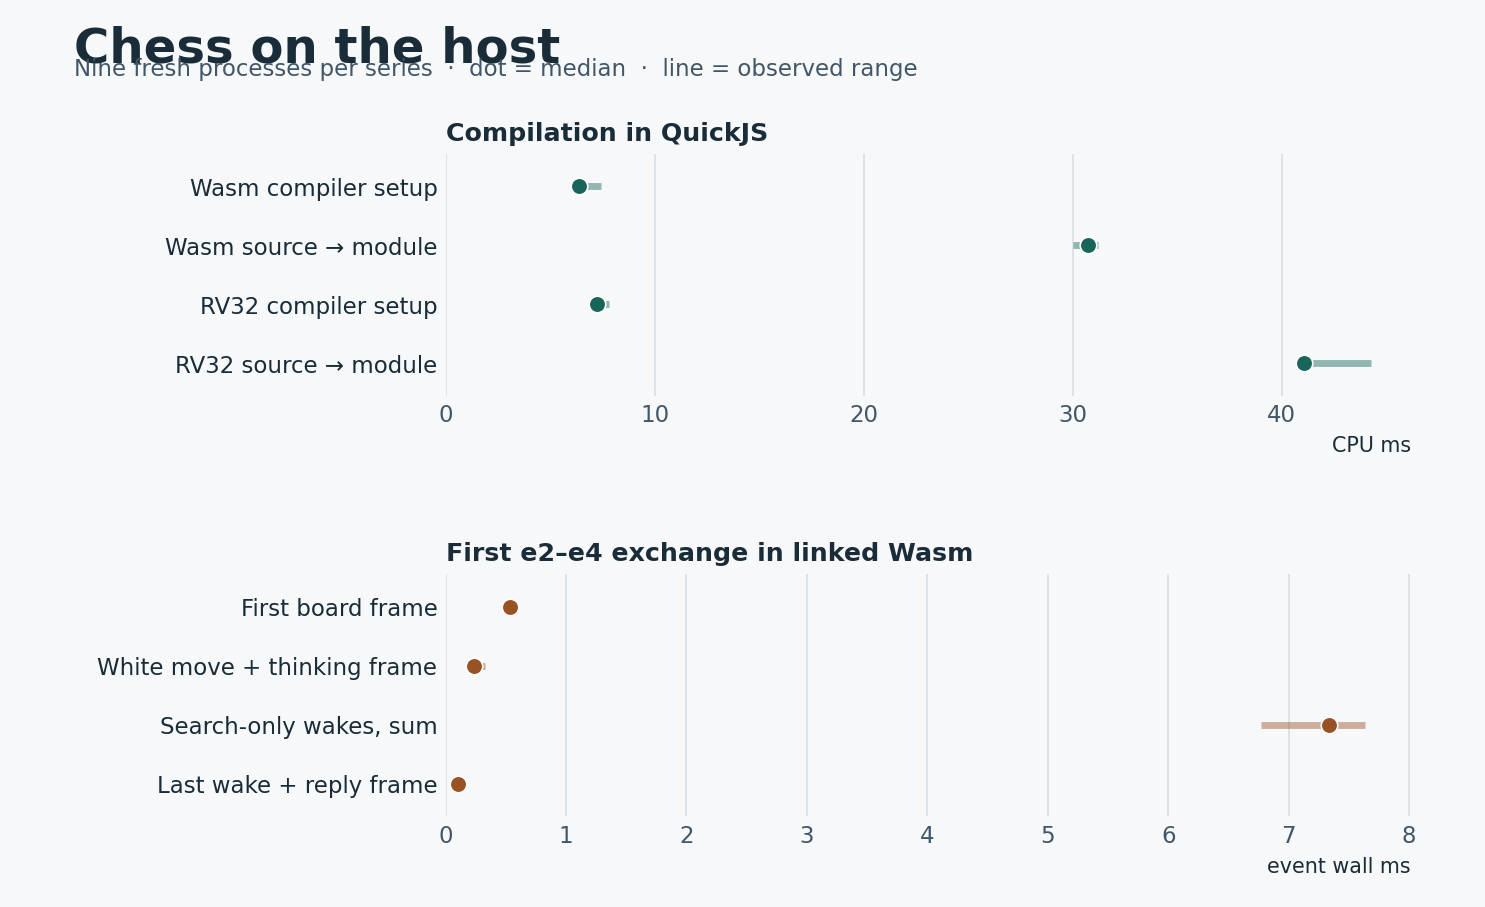
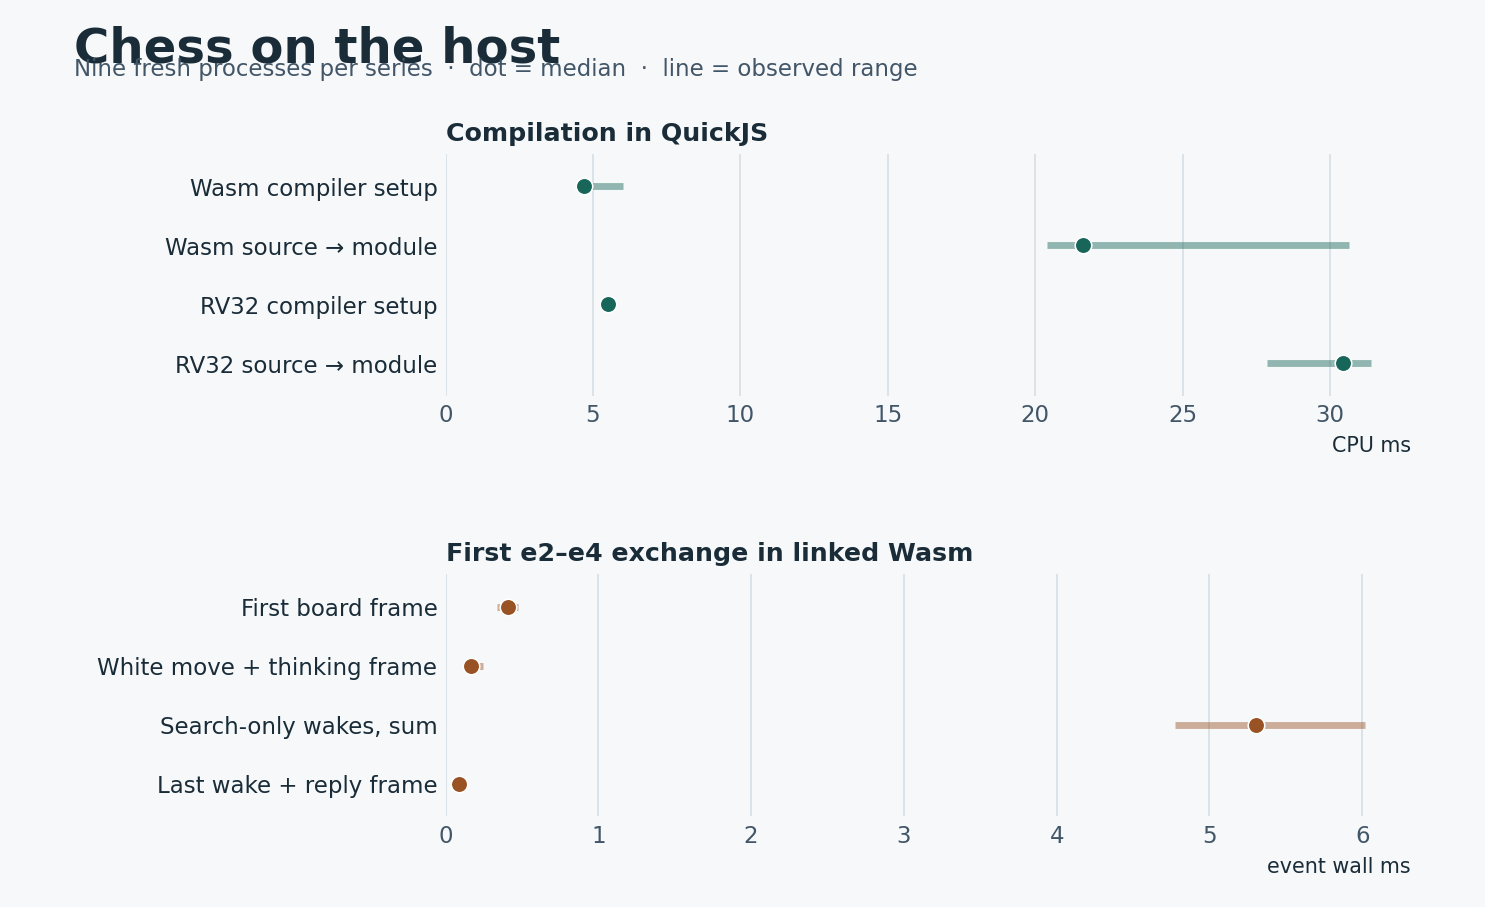
Refresh the Chess measurements on the corrected game source

diff --git a/ttmp/2026/11/20/PICOCALC-TYPED-CHESS--a-playable-typed-chess-engine-and-a-repeatable-picocalc-compiler-workload/reference/01-typed-chess-investigation-diary.md b/ttmp/2026/11/20/PICOCALC-TYPED-CHESS--a-playable-typed-chess-engine-and-a-repeatable-picocalc-compiler-workload/reference/01-typed-chess-investigation-diary.md
@@ -226,3 +226,54 @@ Open scripts/13-measure-host.sh and trace the two separate clocks to scripts/13-
 The compiler clock includes source parse, code emission and linked-module construction. Setup covers loading the compiler source into an already created QuickJS runtime. The linked Wasm event clock starts after marshalling the event buffer and stops when the reactor returns.
 
 The follow-up source overlay in the engine oracle changes only the quiet-leaf capture extension. The activity-aware control takes the defended pawn d1d5 at +456 with 25 visits. Restoring the extension chooses f2f4 at +342 with 26 visits. Ordering and checked evasions are held constant. A separate exploratory Wasm comparison used Python chess 1.11.2 with seed 20261120, 24 random legal playouts capped at 90 plies, and samples at ply indexes congruent to 4 modulo 5. Move lists were sorted by UCI before selection. The 432 sampled positions matched every legal UCI and all 415,182 depth-two leaves. The committed executable oracle remains the 13-position dual-target qualification.
+
+## Step 5: Trace checkmate from the board position to the visible winner
+
+The engine had chosen and scored mates correctly, but the UI’s result code interpreted the side to move as the winner even though that side was checkmated. Commit **634105f** corrects the displayed color and tests the actual production outcome and rendering functions.
+
+### Prompt Context
+
+See Step 1 for the playable-app requirement. The supervisor authorized pausing and requeuing the waiting Chess job so the physical run uses the corrected firmware.
+
+### What I did
+
+- Applied the oracle's two known mating moves to the actual typed position and captured the label emitted by chessAppendStatus.
+- Updated chessOutcome to return the opposing color when the side to move has no legal move and is in check.
+- Reran both oracle scripts and repeated the nine host measurement samples and launcher replay on the corrected source.
+- Stopped only the waiting physical-chess session. Rebuilt its cached, isolated ESP-IDF project and restarted the queue behind the ongoing Editor campaigns.
+
+### Why
+
+The engine outcome and the text on the screen are two different contracts. A correct mate score does not verify the named winner. Evaluating the emitted status after each color's mating move exercises the result mapping itself.
+
+### What worked
+
+The UI reported White after e1e8 and Black after e8e1. The 6,981 engine words and 98 linked-reactor events still matched across targets. The existing opening screenshot and the rerun were byte-identical. The fresh host compile medians were 21.63 ms Wasm and 30.44 ms RV32. The earlier timings in Step 4 are historical. No compiler file changed between the host measurements.
+
+### What didn't work
+
+Before the fix, **node scripts/03-engine-oracle.mjs /usr/bin/gcc /usr/bin/false** reached the Wasm status assertion before it invoked either placeholder process. The diagnostic was **AssertionError [ERR_ASSERTION]: mate-in-one**, actual **Checkmate - Black wins**, expected **Checkmate - White wins**. The same test then passed with the real GCC and emulator paths.
+
+### What I learned
+
+The board's turn flips during chessMake. By the time chessOutcome examines it, the side with no reply is the losing side. The game state codes identify the winner.
+
+### What was tricky to build
+
+The original board queue was asleep. Replacing its firmware safely required pausing that queue before updating the file, running the same partition preflight on the rebuilt binary, and restarting with the same shared lock after ensuring no physical Chess run had started.
+
+### What warrants a second pair of eyes
+
+Check that the receipt's final source digest agrees with both linked modules and that the UI regression test applies real reference moves before checking the label.
+
+### What should be done in the future
+
+Keep both color fixtures in the engine-to-UI gate.
+
+### Code review instructions
+
+Start with chessOutcome in chess.typed, then inspect the render mapping in view.typed. The checkout-ready oracle test and physical command are in the reproduction guide.
+
+### Technical details
+
+The corrected physical firmware SHA-256 is **6b2acb8523eeb874ce94a7f1da33380571c08e2d73f27cf67d57be3ea619e707**. Its source SHA-256 is **871c60f88cd8365e263f057cd68e07a22fb283dea6a53602cb9365994514fff3**. Dry preflight matched the existing backup and partition table. The probe script logs the measured firmware digest in physical.json.

diff --git a/ttmp/2026/11/20/PICOCALC-TYPED-CHESS--a-playable-typed-chess-engine-and-a-repeatable-picocalc-compiler-workload/analysis/01-chess-search-without-recursion-on-the-picocalc.md b/ttmp/2026/11/20/PICOCALC-TYPED-CHESS--a-playable-typed-chess-engine-and-a-repeatable-picocalc-compiler-workload/analysis/01-chess-search-without-recursion-on-the-picocalc.md
@@ -64,7 +64,7 @@ The app adjudicates checkmate, stalemate, bare kings, a single bishop or knight 
 
 For perft at depth one, list every legal move. At depth two, count the leaves after a legal reply to every root move. The initial position gives **20, 400 and 8,902** at depths one to three. Kiwipete adds **48 and 2,039** because its root position has castling and a denser tactical move tree. Specialty positions check every legal coordinate, including four promotion siblings, legal versus pinned en passant and castling through an attacked square. The clocks and board metadata are compared before and after traversal and search. [Independent perft cases](https://github.com/gflohr/Chess-Plisco/blob/main/t/05perft.t) · [Full engine receipt](../various/engine-oracle.json)
 
-The standalone engine oracle compares 6,981 returned words across Wasm and streamed RV32 under the CJI emulator. Those words cover legal moves and their deterministic order, perft, score, node count, completed depth and state-machine steps. The oracle checks native buffered output byte parity as well. The linked application replay compares 98 real reactor events and 18 retained frame payloads, including input during search, a stale token after reset and a failed timer. The separate WAMR launcher replay uses the keyboard, display, compositor and launcher to capture the game screen. The reset image is byte-identical to the initial image. [Cross-target application receipt](../various/world-oracle.json)
+The standalone engine oracle compares 6,981 returned words across Wasm and streamed RV32 under the CJI emulator. Those words cover legal moves and their deterministic order, perft, score, node count, completed depth and state-machine steps. The oracle checks native buffered output byte parity and separately exercises the actual UI's winner labels after a mate by each color in Wasm. The linked application replay compares 98 real reactor events and 18 retained frame payloads, including input during search, a stale token after reset and a failed timer. The separate WAMR launcher replay uses the keyboard, display, compositor and launcher to capture the game screen. The reset image is byte-identical to the initial image. [Cross-target application receipt](../various/world-oracle.json)
 
 ## Keep compilation and play on separate clocks
 
@@ -74,11 +74,11 @@ The hot application clock starts when the compiled Wasm reactor enters an event.
 
 | Host clock | Wasm | RV32 |
 | --- | ---: | ---: |
-| Compiler script setup, median of nine fresh processes | 6.38 ms | 7.24 ms |
-| Source to linked module, median of nine fresh processes | 30.74 ms | 41.05 ms |
-| Source to linked module, observed range | 29.99–31.21 ms | 40.69–44.26 ms |
+| Compiler script setup, median of nine fresh processes | 4.71 ms | 5.50 ms |
+| Source to linked module, median of nine fresh processes | 21.63 ms | 30.44 ms |
+| Source to linked module, observed range | 20.40–30.64 ms | 27.86–31.40 ms |
 | Linked module | 73,204 bytes | 240,452 bytes |
 
-The RV32 artifact includes the fixed executable slot and common reactor, so its file length is larger than the instructions Chess emits. The Node event medians for Wasm are 0.54 ms for the first board frame, 0.24 ms for the move and thinking frame, 7.33 ms across the 77 search-only wakes, and 0.11 ms for the final wake including the reply frame. The 78th wake includes the final move and frame build. These host observations identify operations with different costs. The board measures their runtime in its own scheduler and engine.
+The RV32 artifact includes the fixed executable slot and common reactor, so its file length is larger than the instructions Chess emits. The Node event medians for Wasm are 0.41 ms for the first board frame, 0.17 ms for the move and thinking frame, 5.30 ms across the 77 search-only wakes, and 0.09 ms for the final wake including the reply frame. The 78th wake includes the final move and frame build. An earlier host run during other firmware work measured 30.74 ms for Wasm and 41.05 ms for RV32 with the same compiler scripts. These are observations of the host in those sessions, with clock and system-load differences uncharacterized. The board measures its own scheduler and engine.
 
 See the raw [host timing distributions](../various/host-measurements.json) and the [physical replay preparation and command](../reference/03-reproduce-chess.md).
